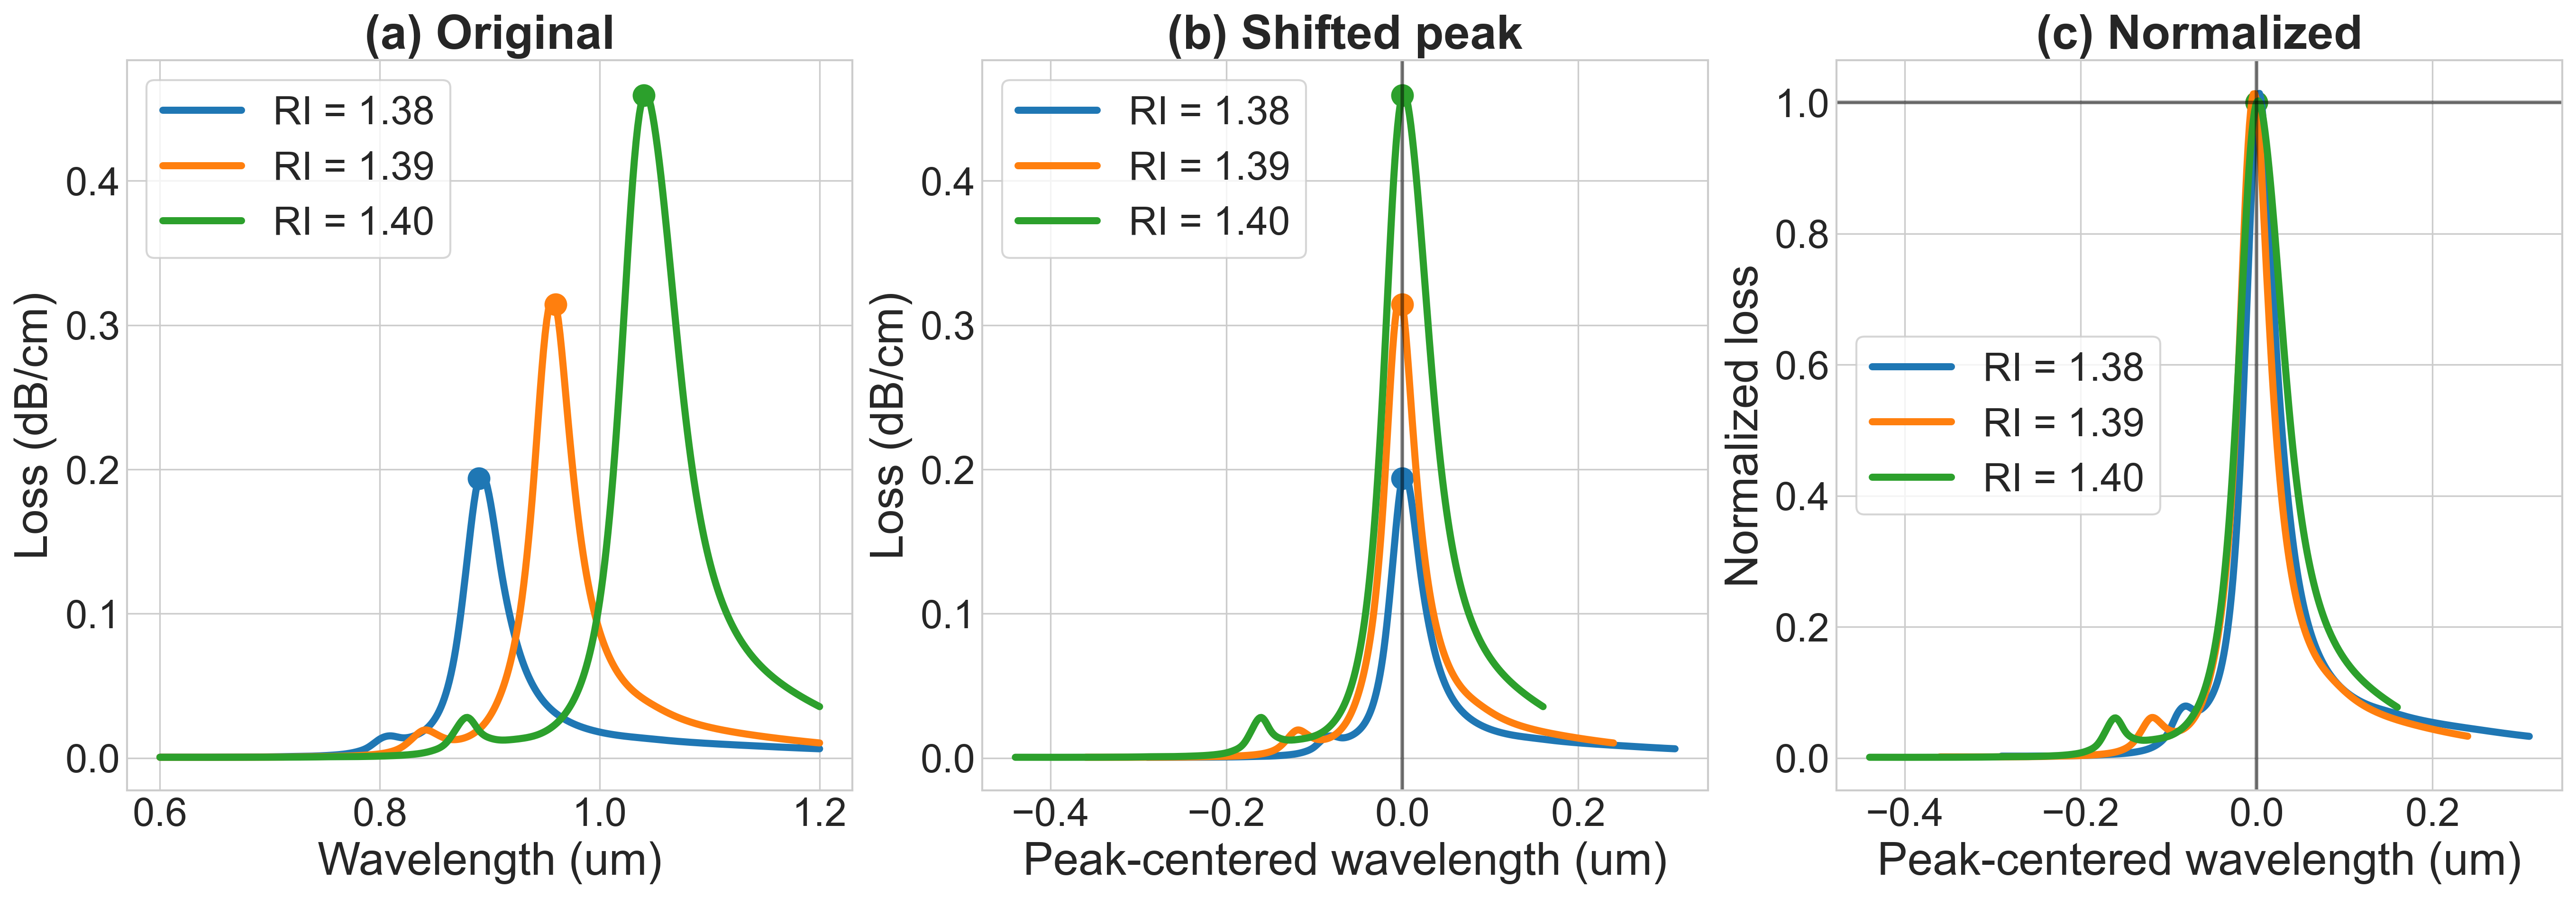
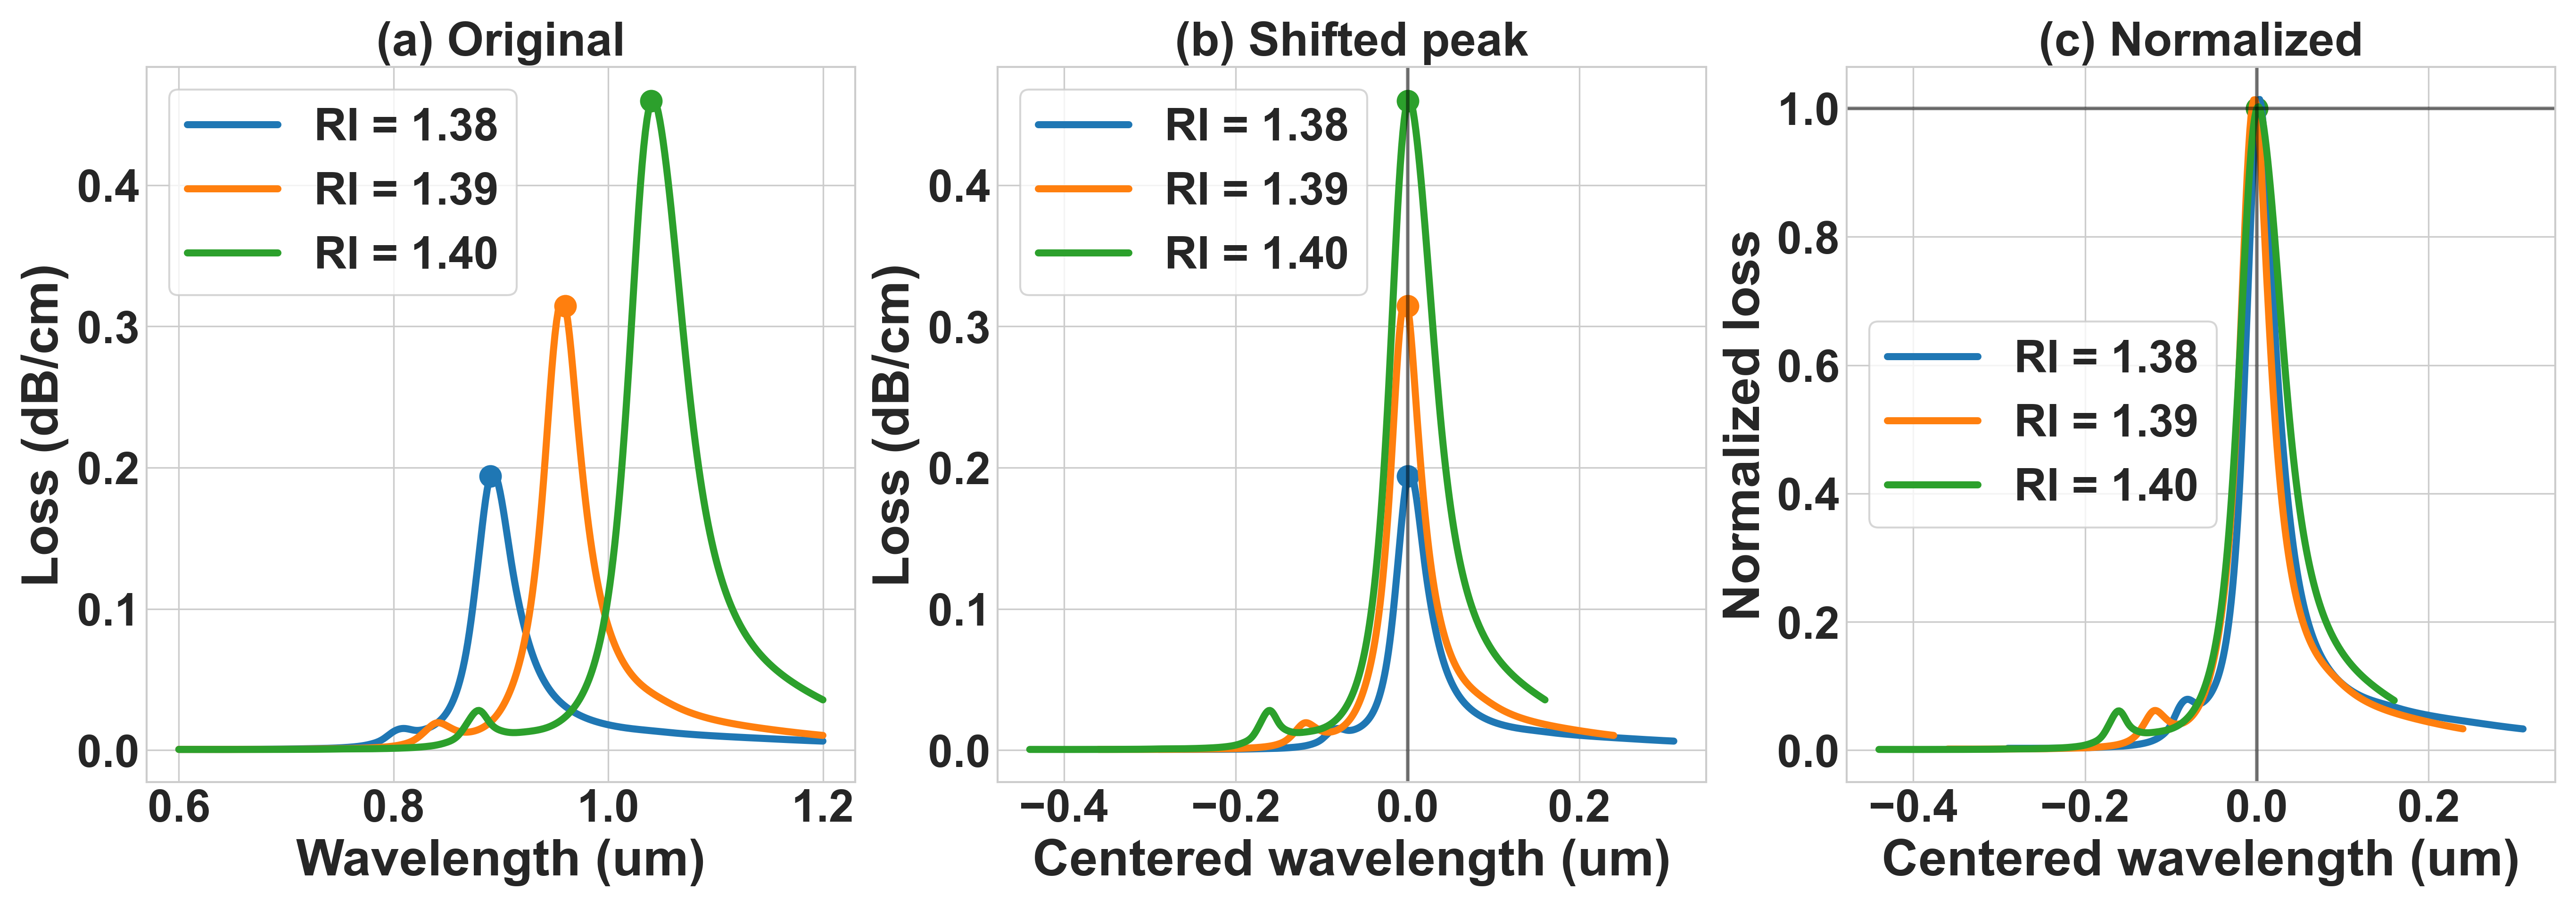
Enhance figure styling for improved visualization in ML peak alignment and prediction scripts

Changed region(s): [[0.0, 0.0, 0.9952, 0.9968], [0.6842, 0.0, 0.9952, 0.1558]]

diff --git a/generate_ml_paper_assets.py b/generate_ml_paper_assets.py
@@ -14,9 +14,9 @@ from photonics.core import TESTING_FILE, TRAINING_FILE, X_AXIS, load_dataset
 
 OUT_DIR = Path("Research_Soumik")
 TITLE_SIZE = 24
-AXIS_LABEL_SIZE = 23
-TICK_LABEL_SIZE = 20
-LEGEND_SIZE = 20
+AXIS_LABEL_SIZE = 26
+TICK_LABEL_SIZE = 23
+LEGEND_SIZE = 23
 LINE_WIDTH = 3.6
 MARKER_SIZE = 110
 
@@ -73,25 +73,34 @@ def save_peak_alignment():
         axes[2].scatter(0, 1, s=MARKER_SIZE)
 
     axes[0].set_title("(a) Original", fontsize=TITLE_SIZE, weight="bold")
-    axes[0].set_xlabel("Wavelength (um)", fontsize=AXIS_LABEL_SIZE)
-    axes[0].set_ylabel("Loss (dB/cm)", fontsize=AXIS_LABEL_SIZE)
+    axes[0].set_xlabel("Wavelength (um)", fontsize=AXIS_LABEL_SIZE, weight="bold")
+    axes[0].set_ylabel("Loss (dB/cm)", fontsize=AXIS_LABEL_SIZE, weight="bold")
 
     axes[1].set_title("(b) Shifted peak", fontsize=TITLE_SIZE, weight="bold")
-    axes[1].set_xlabel("Peak-centered wavelength (um)", fontsize=AXIS_LABEL_SIZE)
-    axes[1].set_ylabel("Loss (dB/cm)", fontsize=AXIS_LABEL_SIZE)
+    axes[1].set_xlabel("Centered wavelength (um)", fontsize=AXIS_LABEL_SIZE, weight="bold")
+    axes[1].set_ylabel("Loss (dB/cm)", fontsize=AXIS_LABEL_SIZE, weight="bold")
     axes[1].axvline(0, color="black", linewidth=1.8, alpha=0.5)
 
     axes[2].set_title("(c) Normalized", fontsize=TITLE_SIZE, weight="bold")
-    axes[2].set_xlabel("Peak-centered wavelength (um)", fontsize=AXIS_LABEL_SIZE)
-    axes[2].set_ylabel("Normalized loss", fontsize=AXIS_LABEL_SIZE)
+    axes[2].set_xlabel("Centered wavelength (um)", fontsize=AXIS_LABEL_SIZE, weight="bold")
+    axes[2].set_ylabel("Normalized loss", fontsize=AXIS_LABEL_SIZE, weight="bold")
     axes[2].axvline(0, color="black", linewidth=1.8, alpha=0.5)
     axes[2].axhline(1, color="black", linewidth=1.8, alpha=0.5)
 
     for ax in axes:
         ax.tick_params(axis="both", labelsize=TICK_LABEL_SIZE)
-        ax.legend(fontsize=LEGEND_SIZE, frameon=True)
+        for label in ax.get_xticklabels() + ax.get_yticklabels():
+            label.set_fontweight("bold")
+        legend = ax.legend(fontsize=LEGEND_SIZE, frameon=True)
+        for text in legend.get_texts():
+            text.set_fontweight("bold")
 
-    fig.savefig(OUT_DIR / "ML_peak_alignment.png", dpi=300, bbox_inches="tight")
+    fig.savefig(
+        OUT_DIR / "ML_peak_alignment.png",
+        dpi=300,
+        bbox_inches="tight",
+        pad_inches=0.15,
+    )
     plt.close(fig)
 
 
@@ -123,16 +132,21 @@ def save_peak_aligned_prediction():
             label="Predicted",
         )
         ax.set_title(f"RI = {ri:.4f}", fontsize=TITLE_SIZE, weight="bold")
-        ax.set_xlabel("Wavelength (um)", fontsize=AXIS_LABEL_SIZE)
-        ax.set_ylabel("Loss (dB/cm)", fontsize=AXIS_LABEL_SIZE)
+        ax.set_xlabel("Wavelength (um)", fontsize=AXIS_LABEL_SIZE, weight="bold")
+        ax.set_ylabel("Loss (dB/cm)", fontsize=AXIS_LABEL_SIZE, weight="bold")
         ax.set_xlim(0.6, 1.2)
         ax.tick_params(axis="both", labelsize=TICK_LABEL_SIZE)
-        ax.legend(fontsize=LEGEND_SIZE, frameon=True)
+        for label in ax.get_xticklabels() + ax.get_yticklabels():
+            label.set_fontweight("bold")
+        legend = ax.legend(fontsize=LEGEND_SIZE, frameon=True)
+        for text in legend.get_texts():
+            text.set_fontweight("bold")
 
     fig.savefig(
         OUT_DIR / "ML_peak_aligned_gpr_prediction.png",
         dpi=300,
         bbox_inches="tight",
+        pad_inches=0.15,
     )
     plt.close(fig)
 